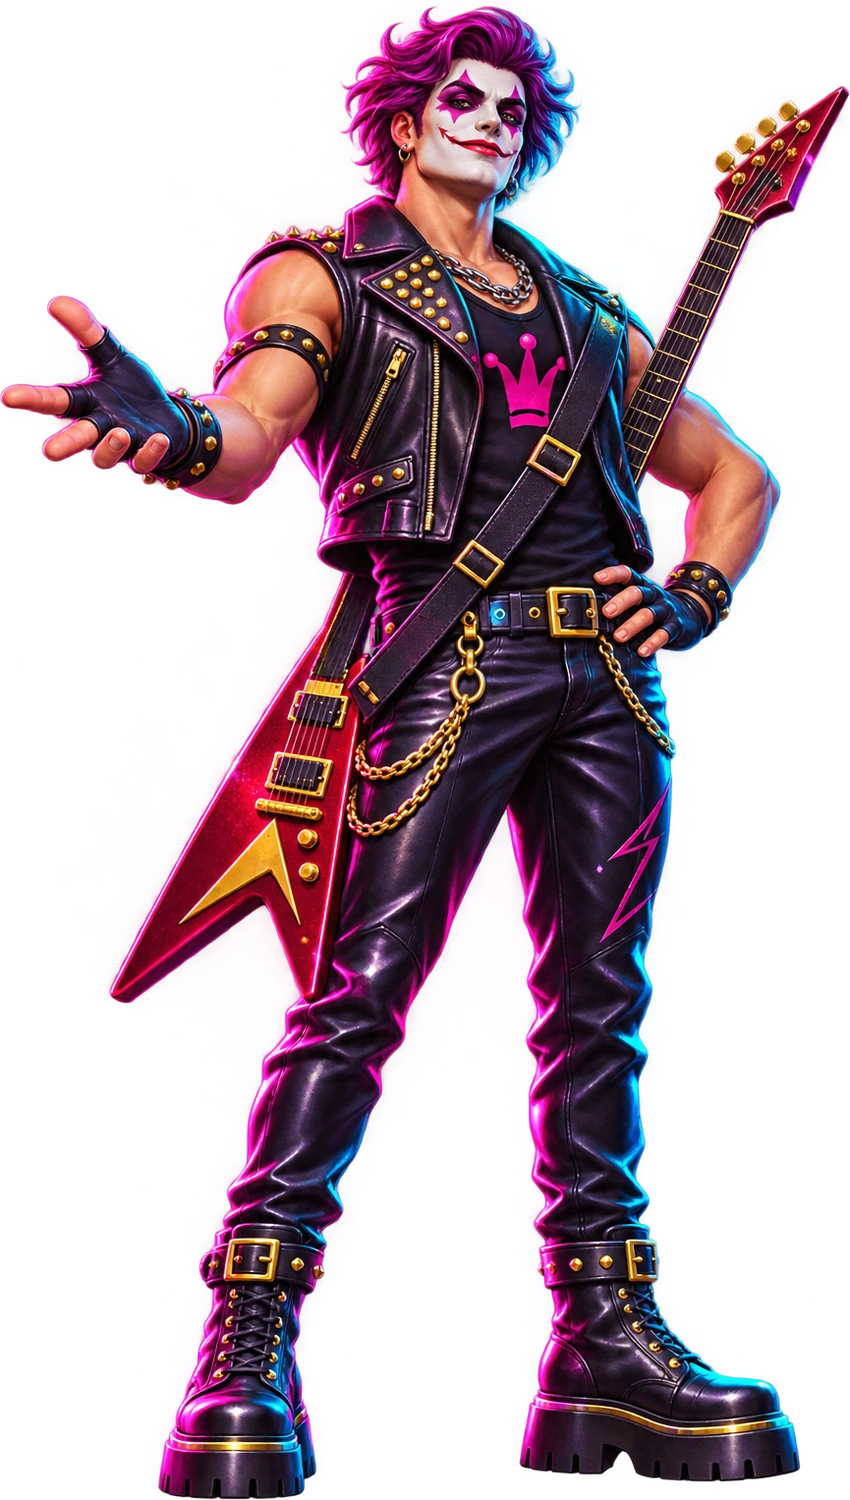
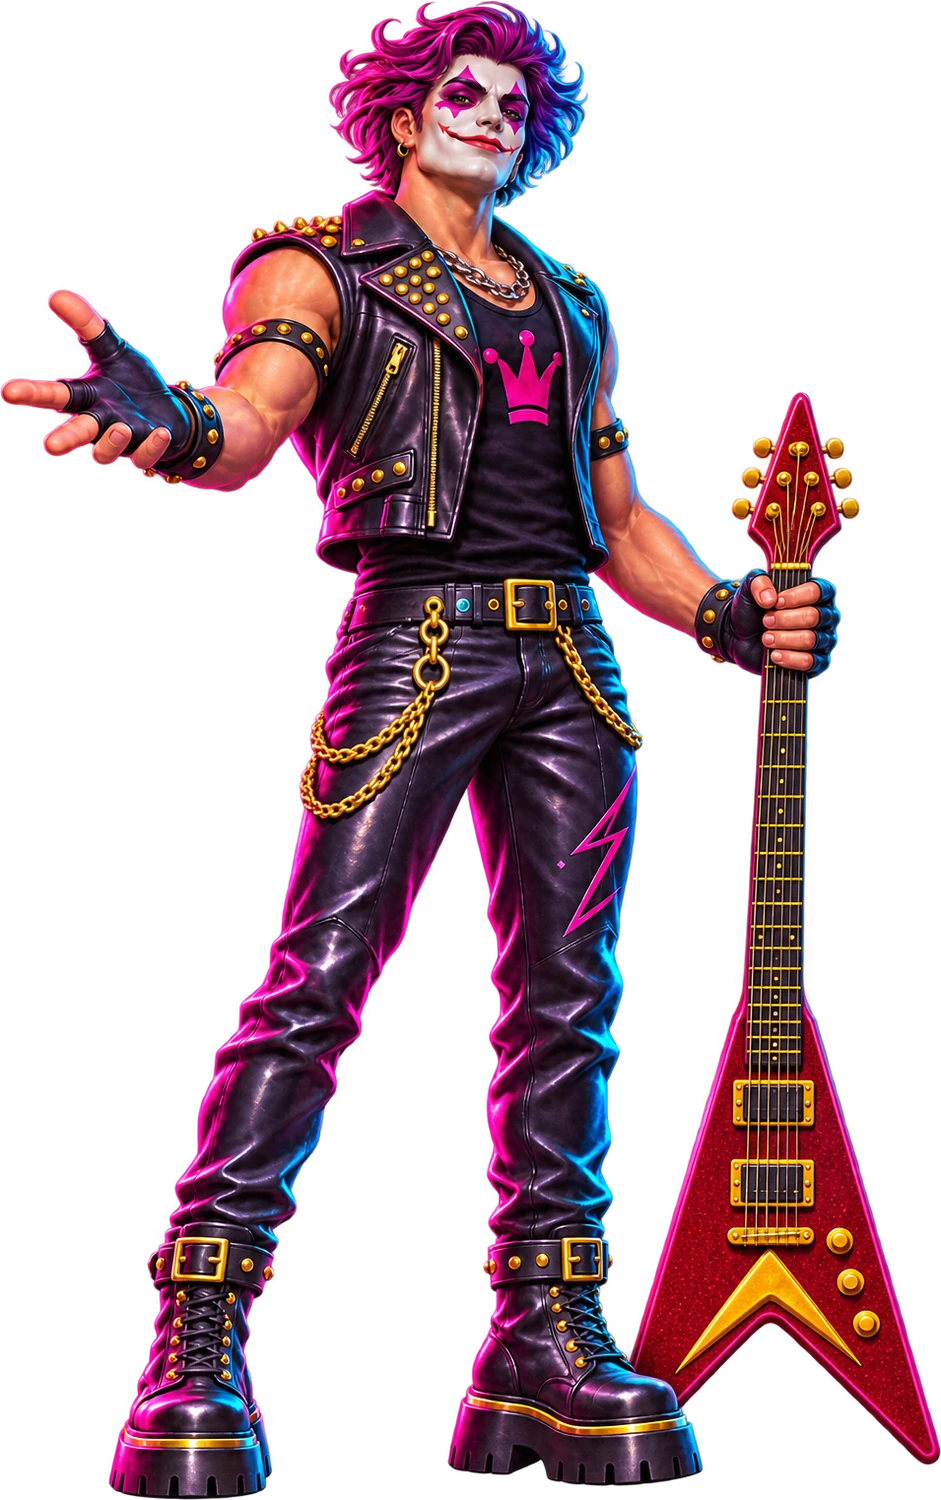
Neon Joker Spins C sets: redrawn Stage Gear hero
The guitar was broken (body and neck on opposite sides); he now holds one
flying-V by the neck, body on the floor. Mascot query bumped on the sets
page so cached copies refresh.

diff --git a/front/neon-joker-spins-c-sets.html b/front/neon-joker-spins-c-sets.html
@@ -49,7 +49,7 @@
     <!-- Дизайн-канвас: десктоп 1600x900, портрет 720x1280 (updateStageScale). -->
     <div class="stage" id="stage">
 
-      <img class="obj mascot" id="mascot" src="img/neon-joker-spins/skins/c/img/mascot.webp?v=1" alt="">
+      <img class="obj mascot" id="mascot" src="img/neon-joker-spins/skins/c/img/mascot.webp?v=2" alt="">
 
       <!-- Окно барабанов лежит ПОД рамой: рама с прозрачным проёмом и
            неоновыми перемычками накрывает ленты. -->
